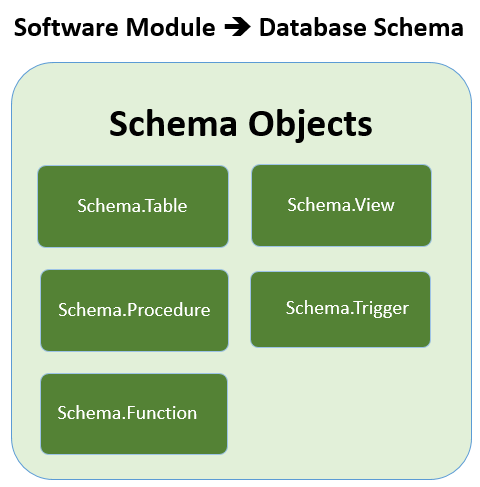
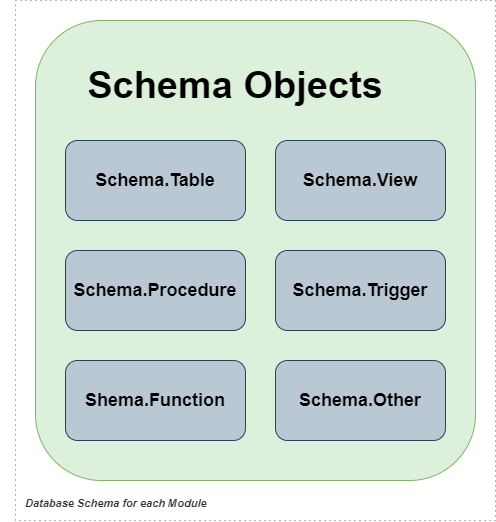
Updated: System diagrams

diff --git a/public/templates/employee/employee-info/create.html b/public/templates/employee/employee-info/create.html
@@ -4,15 +4,15 @@
     <form class="ui form" action="/employees/employee-info/create" method="POST">
         <div class="field">
             <label for="first_name"><strong>First Name:</strong></label>
-            <input class="ui input" type="text" name="first_name" id="first_name" placeholder="Type First Name" required>
+            <input class="ui input" type="text" name="first_name" id="first_name" placeholder="Type First Name" >
         </div>
         <div class="field">
             <label for="last_name"><strong>Last Name:</strong></label>
-            <input class="ui input" type="text" name="last_name" id="last_name" placeholder="Type Last Name" required>
+            <input class="ui input" type="text" name="last_name" id="last_name" placeholder="Type Last Name" >
         </div>
         <div class="field">
             <label for="identification_type_id"><strong>Identification Type:</strong></label>
-            <select class="ui dropdown" name="identification_type_id" id="identification_type_id" required>
+            <select class="ui dropdown" name="identification_type_id" id="identification_type_id" >
                 <option value="">Select Identification Type</option>
                 {{ range .IdentificationTypes }}
                     <option value="{{ .TypeId }}">{{ .TypeName }}</option>
@@ -21,7 +21,7 @@
         </div>
         <div class="field">
             <label for="identification_number"><strong>Identification Number:</strong></label>
-            <input class="ui input" type="text" name="identification_number" id="identification_number" placeholder="Enter Identification Number" required>
+            <input class="ui input" type="text" name="identification_number" id="identification_number" placeholder="Enter Identification Number" >
         </div>
         <div class="field">
             <label for="gender"><strong>Gender:</strong></label>

diff --git a/public/templates/employee/employee-info/details-address.html b/public/templates/employee/employee-info/details-address.html
@@ -5,7 +5,7 @@
     </a>
 </div>
 
-{{ if .CountAddresses}}
+{{ if .CountAddresses }}
     <h4>Registered Address: {{.CountAddresses}}</h4>
     {{ range .EmployeeAddresses }}
         <div class="ui segment">

diff --git a/README.md b/README.md
@@ -17,7 +17,7 @@ Example of a complete modular sofware, written in Golang
 - [x] Authentication
 - [x] Company
 - [x] Reference
-- [ ] Employees
+- [x] Employees
 - [ ] Reports
 
 
@@ -29,17 +29,24 @@ Example of a complete modular sofware, written in Golang
 ![Structure](docs/_diagrams/Module%20Structure.png)
 
 
-## Module Comunication
-![Comunication Between Modules](docs/_diagrams/Comunication.jpg)
+## Module Flow
+![Flow](docs/_diagrams/Modules%20-%20Flow.png)
+
+
+## Module Communication
+![Comunication Between Modules](docs/_diagrams/Communication.png)
 
 
 ## Routing 
-![Routing](docs/_diagrams/Routes.jpg)
+![Routing](docs/_diagrams/Routes.png)
 
 
 ## Database 
-![Database Schemas](docs/_diagrams/Modular%20Database.jpg)
+![Database](docs/_diagrams/Modular%20Database.png)
+
+## Schema Objects 
 ![Schema Objects](docs/_diagrams/Schema-Objects.png)
+
 
 ## Module Creation
 ![Module Creation](docs/_diagrams/Module%20Creation.png)
